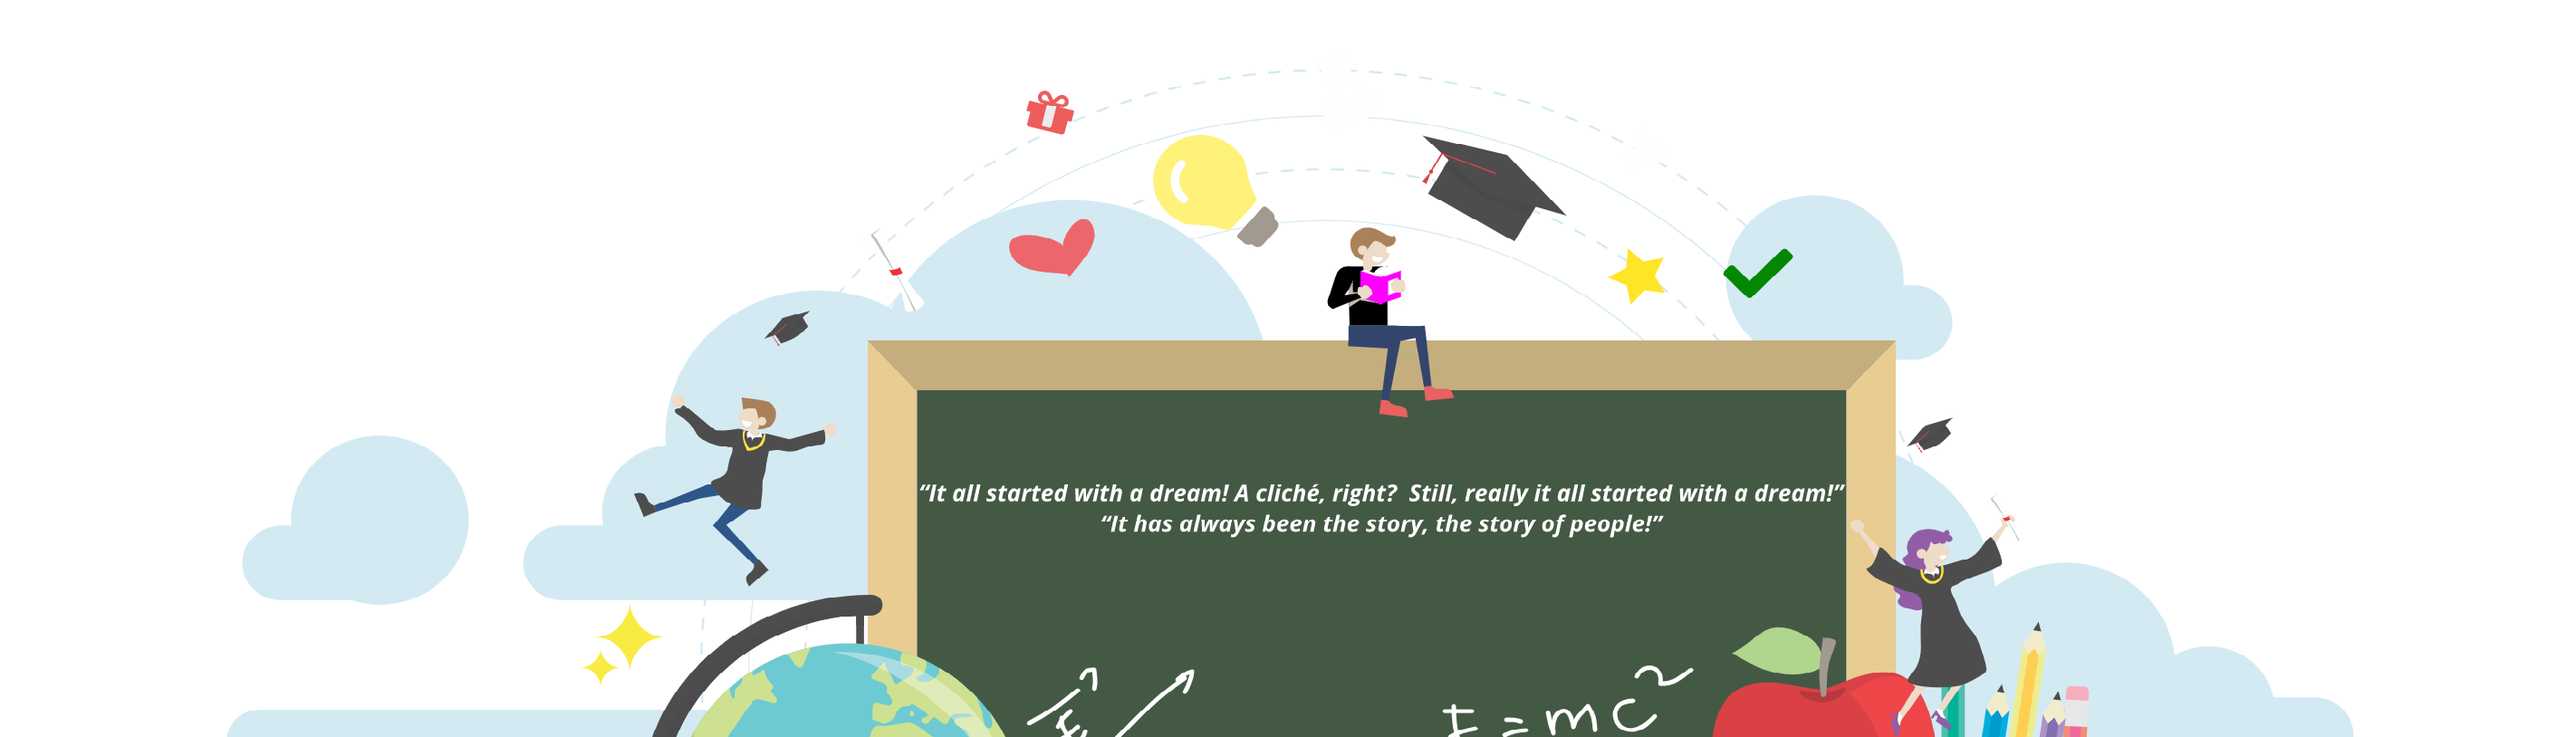
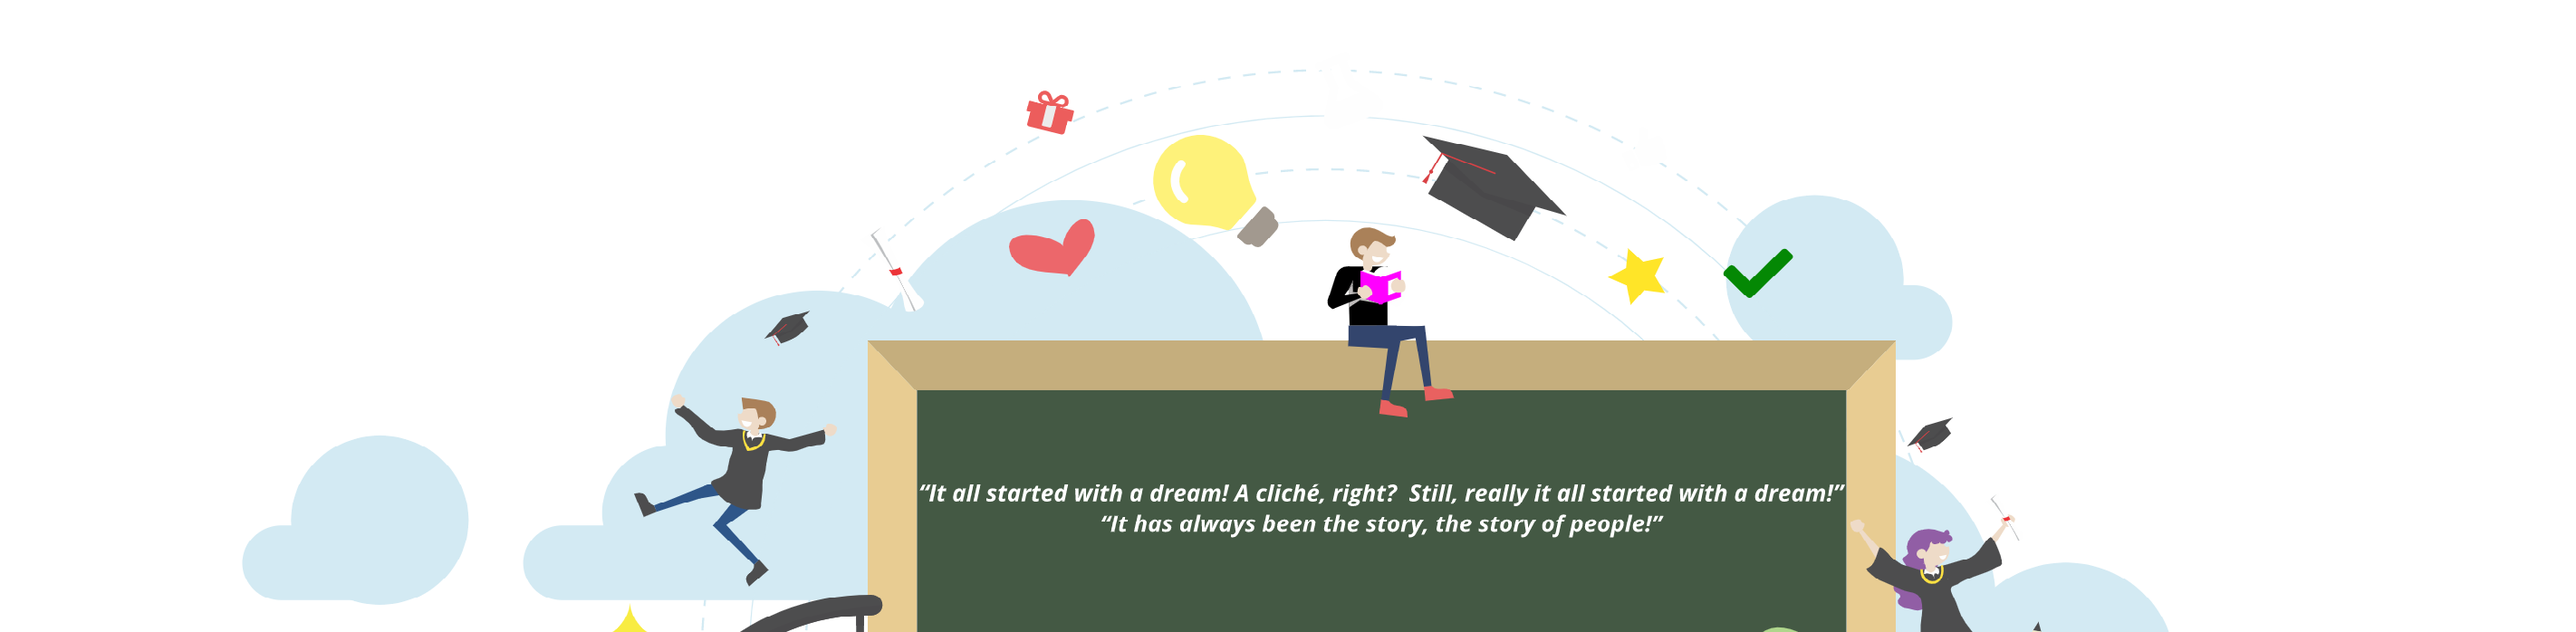
image change

Changed region(s): [[0.0619, 0.1203, 0.9283, 1.0], [0.6188, 0.9026, 0.6498, 0.9327]]

diff --git a/css/style.css b/css/style.css
@@ -618,7 +618,8 @@ header .navbar li.active a {
 	height: 410px;
 }
 .home-slide li {
-	height: 410px;
+	/* height: 410px; */
+	height: auto;
 	text-align: center;
 	position: relative;
 }
